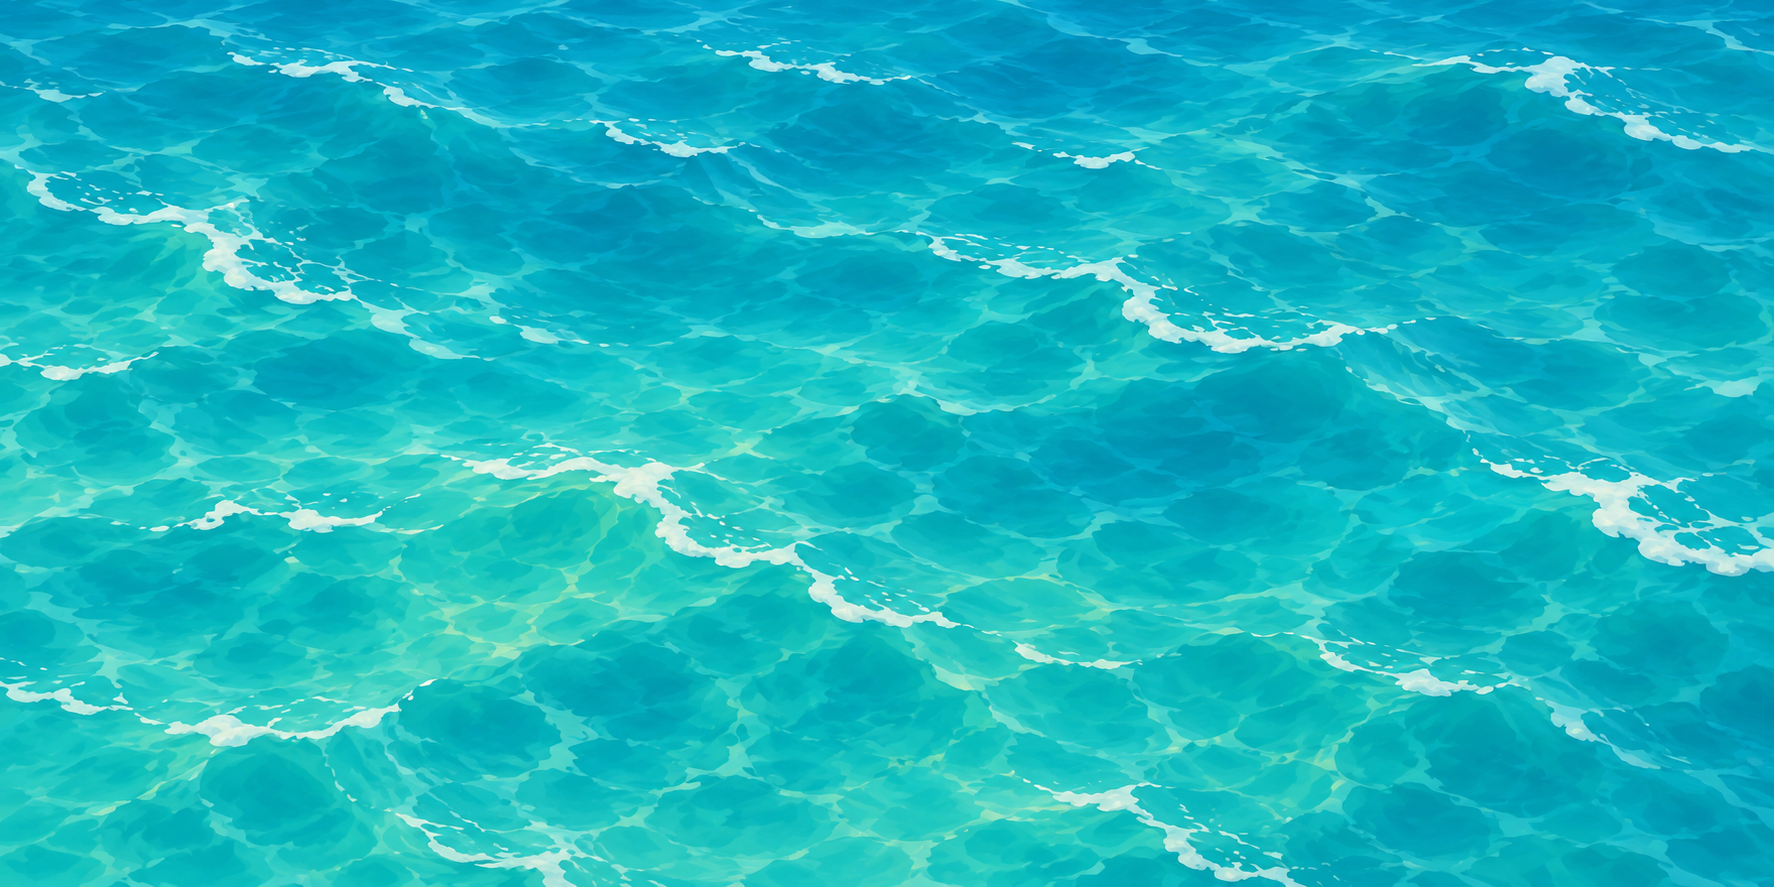
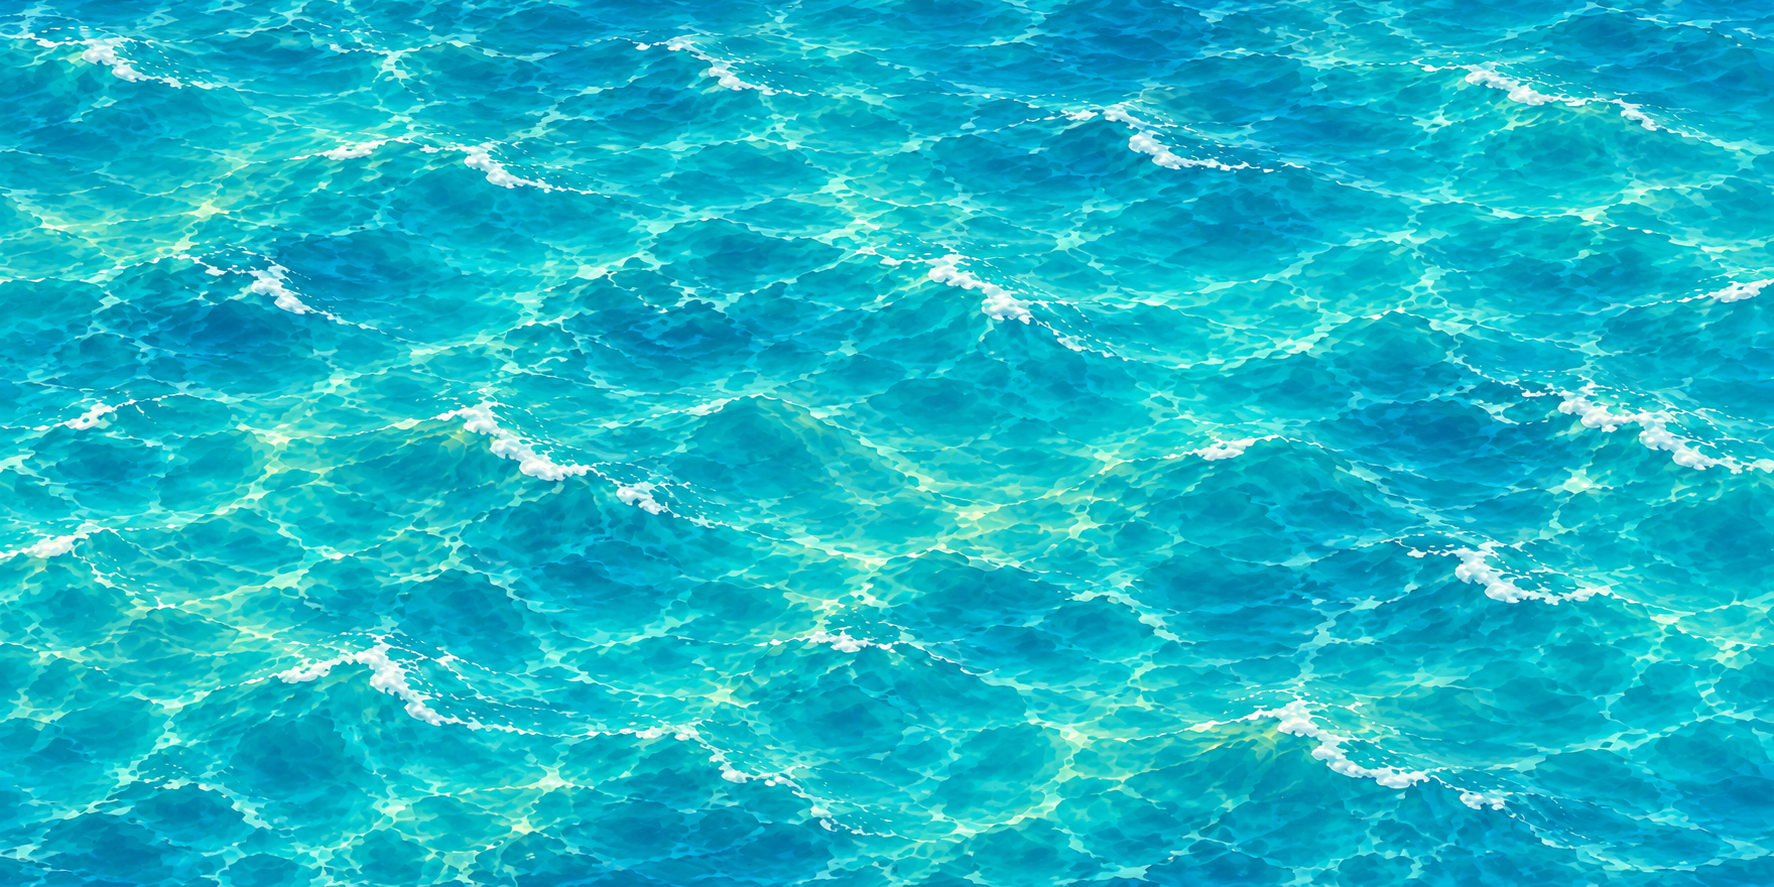
A wider, calmer sea
The old water was 900 pixels of painting with a few strong features, and its
repeat showed every third of a phone screen. The new one is evenly lit, its
crests small and scattered, and kept at 1400 wide, so the mirrored tile is
2800 across and a repeat sits about twice as far apart.

diff --git a/tools/prep-art.js b/tools/prep-art.js
@@ -135,7 +135,7 @@ const CAP = {
   ground: 1800,
   // the water is mirrored into a 2x2 tile at runtime, so its pixels cost four
   // times what they measure here; it is a soft background and can take it
-  water: 900,
+  water: 1400,
 };
 
 const near = (p, c, tol) => Math.abs(p[0] - c[0]) < tol && Math.abs(p[1] - c[1]) < tol && Math.abs(p[2] - c[2]) < tol;

diff --git a/art/PROMPTS.md b/art/PROMPTS.md
@@ -3273,3 +3273,24 @@ hanging into the empty space under the diamond, never covering it. Remove
 the magenta line, the pale fill and the words. Everything outside the
 island fully transparent.
 ```
+
+## 44. The open sea
+
+The first water was a 900-wide painting with a few strong features, and on a
+phone its repeat showed every third of a screen. This one is evenly lit, with
+small crests scattered and no single bright spot, sent with the old texture
+attached. Kept at 1400 x 700; the game mirrors it into a 2800 x 1400 tile.
+
+### 44.1 → `art/original/water.png`
+
+```
+Next: the SEA around the island (attached: the current water texture).
+Please paint a new open-sea texture, seen from the same high isometric
+angle, to tile across a large area: clear bright turquoise water like the
+title painting, deeper teal in places, soft sunlit caustic ripples, and only
+a FEW small scattered white wave crests -- spread evenly and irregularly
+with no big feature, no single bright spot, no horizon, no land, no boats,
+no objects, and no strong directional pattern, so that a repeat of it is
+hard to notice. Evenly lit edge to edge with no vignette. Wide landscape,
+fill the whole canvas.
+```
